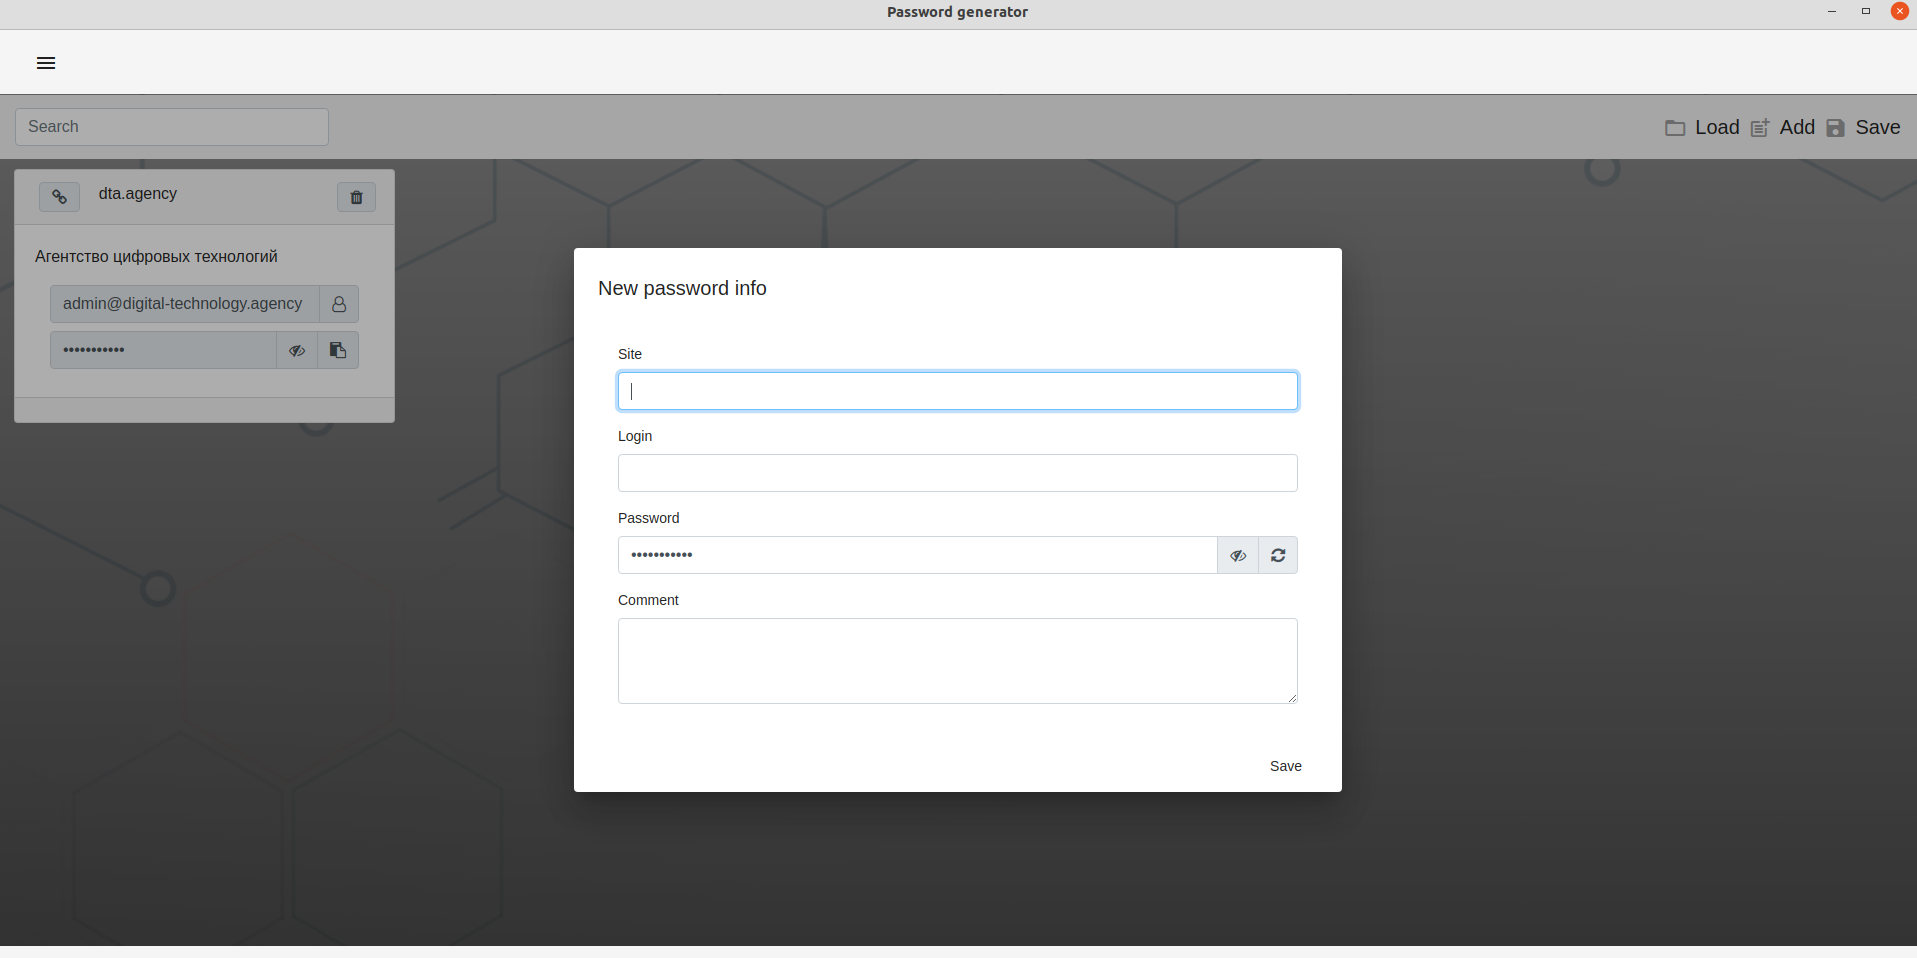
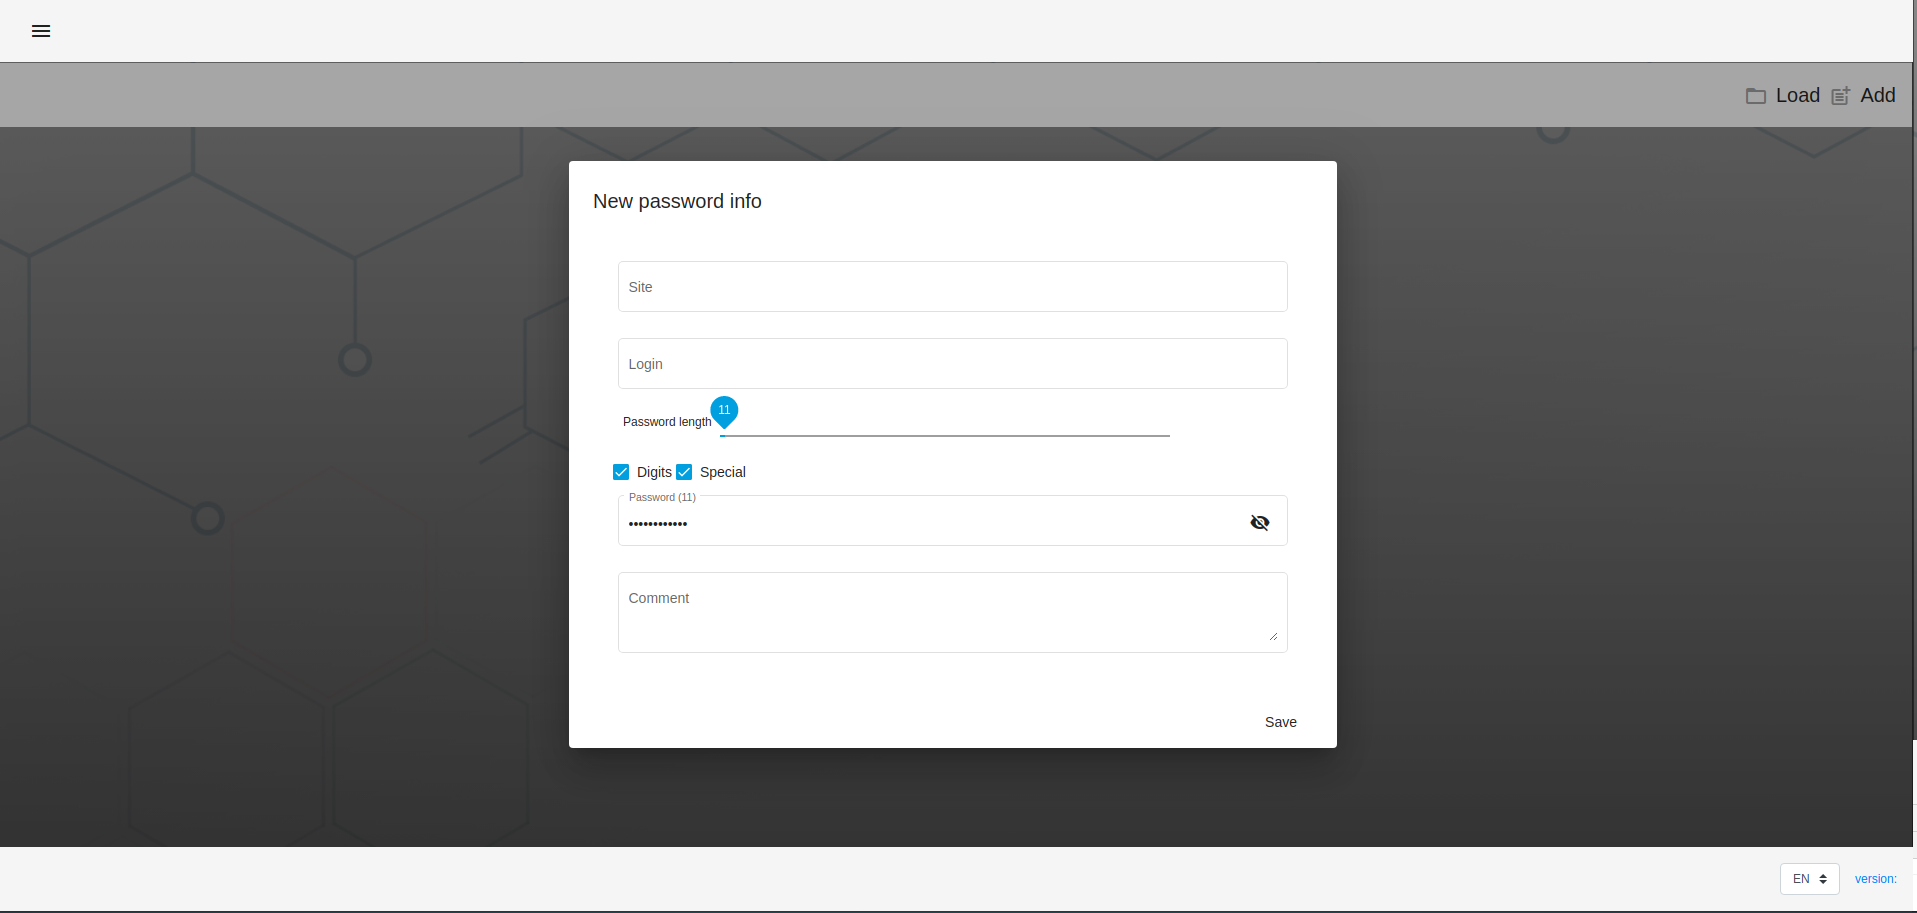
Options with create password close #31

diff --git a/src/app/@core/local/locals.ts b/src/app/@core/local/locals.ts
@@ -23,6 +23,8 @@ export class Local {
             'Create certificate': 'Create certificate',
             'Password cards': 'Password cards',
             'Password length': 'Password length',
+            'Digits': 'Digits',
+            'Special': 'Special',
             Comment: 'Comment',
             Login: 'Login',
             Site: 'Site',
@@ -54,6 +56,8 @@ export class Local {
             'Create certificate': 'Создать сертификат',
             'Password cards': 'Карточки ресурсов',
             'Password length': 'Длинна пароля',
+            'Digits': 'Цифры',
+            'Special': 'Спец. символы',
             Comment: 'Коментарий',
             Login: 'Логин',
             Site: 'Сайт',

diff --git a/src/app/dialogs/users/user-item-dialog/user-item-dialog.component.html b/src/app/dialogs/users/user-item-dialog/user-item-dialog.component.html
@@ -26,10 +26,10 @@
         </div>
         <div class="row checkers">
             <mat-checkbox [(ngModel)]="options.digits"
-                          (change)="generatePassword()">Digits
+                          (change)="generatePassword()">{{ 'Digits' | translate }}
             </mat-checkbox>
             <mat-checkbox [(ngModel)]="options.special"
-                          (change)="generatePassword()">Special
+                          (change)="generatePassword()">{{ 'Special' | translate }}
             </mat-checkbox>
         </div>
         <div class="row">

diff --git a/README.md b/README.md
@@ -33,6 +33,6 @@ This project was generated with [Angular CLI](https://github.com/angular/angular
 
 
 ## Downloads
-[![Windows app](./pic/win-dwnl.png)](https://github.com/digital-technology-agency/password-generator/releases/download/1.0.9/password-generator-installer-1.0.9.exe)
-[![Linux app](./pic/linux-dwnl.png)](https://github.com/digital-technology-agency/password-generator/releases/download/1.0.9/password-generator-1.0.9.AppImage)
-[![Mac app](./pic/mac-dwnl.png)](https://github.com/digital-technology-agency/password-generator/releases/download/1.0.9/password-generator-1.0.9-mac.tar.gz)
+[![Windows app](./pic/win-dwnl.png)](https://github.com/digital-technology-agency/password-generator/releases/download/1.0.10/password-generator-installer-1.0.10.exe)
+[![Linux app](./pic/linux-dwnl.png)](https://github.com/digital-technology-agency/password-generator/releases/download/1.0.10/password-generator-1.0.10.AppImage)
+[![Mac app](./pic/mac-dwnl.png)](https://github.com/digital-technology-agency/password-generator/releases/download/1.0.10/password-generator-1.0.10-mac.tar.gz)
